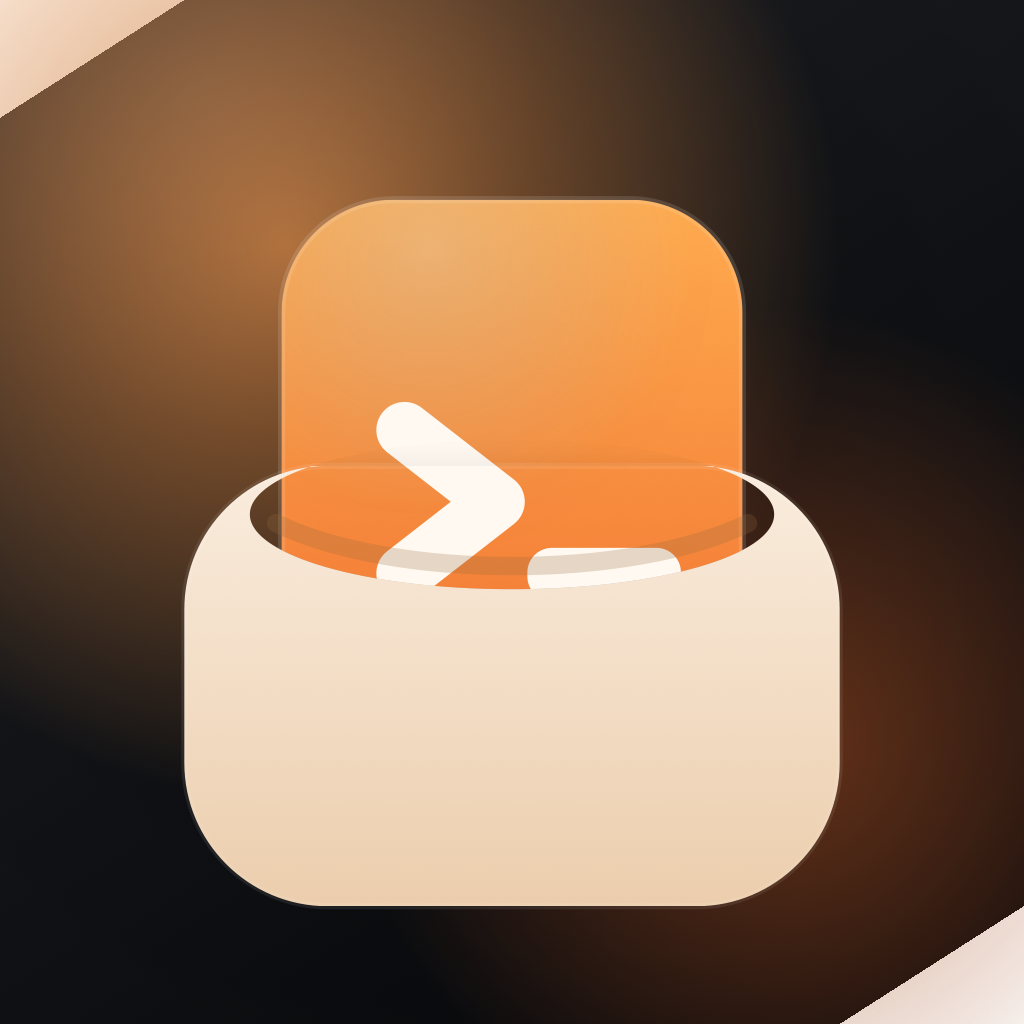
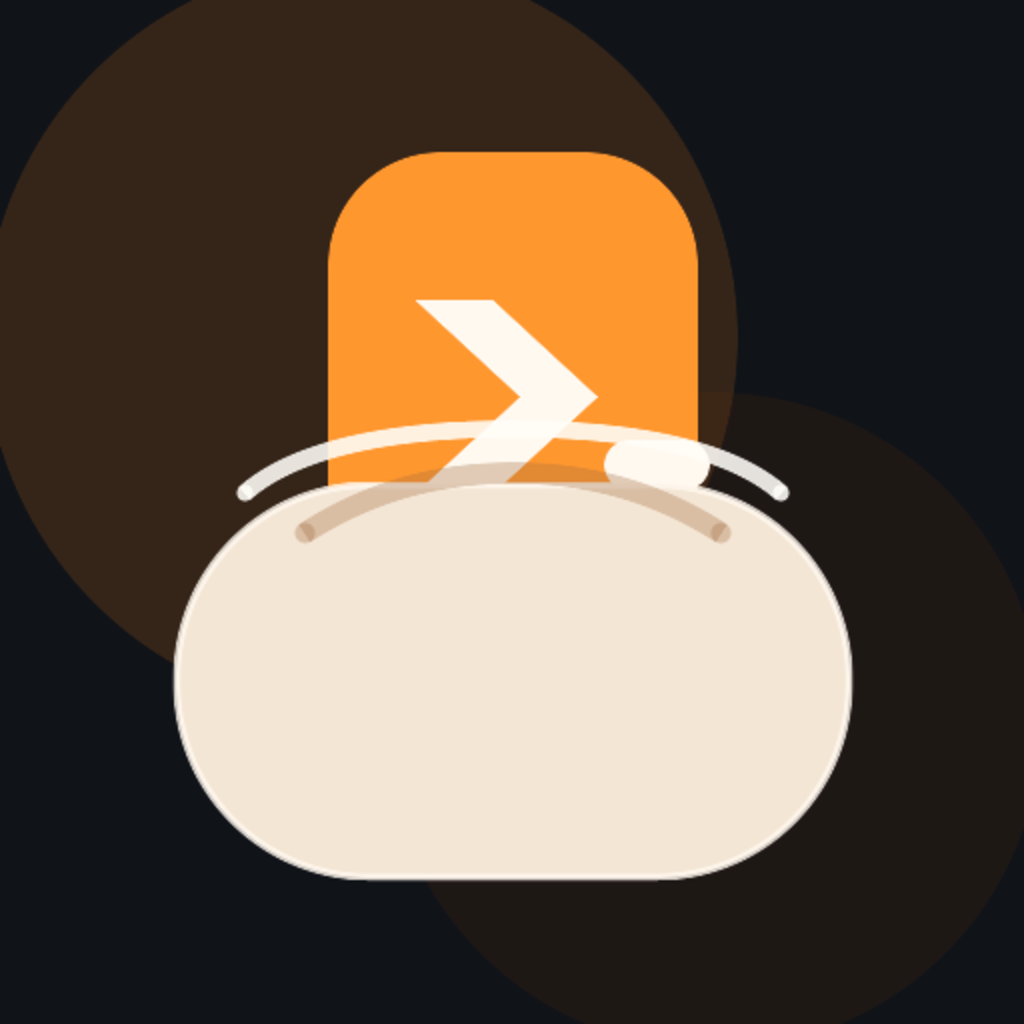
docs(site): ロゴアセットを更新

diff --git a/README.md b/README.md
@@ -1,5 +1,5 @@
 <p align="center">
-  <img src="https://raw.githubusercontent.com/codex-pocket/.github/main/profile/assets/github-hero.svg" alt="CodexPocket hero banner" width="100%">
+  <img src="https://raw.githubusercontent.com/codex-pocket/.github/main/profile/assets/github-hero-ja.png" alt="CodexPocket hero banner" width="100%">
 </p>
 
 # CodexPocket Docs
